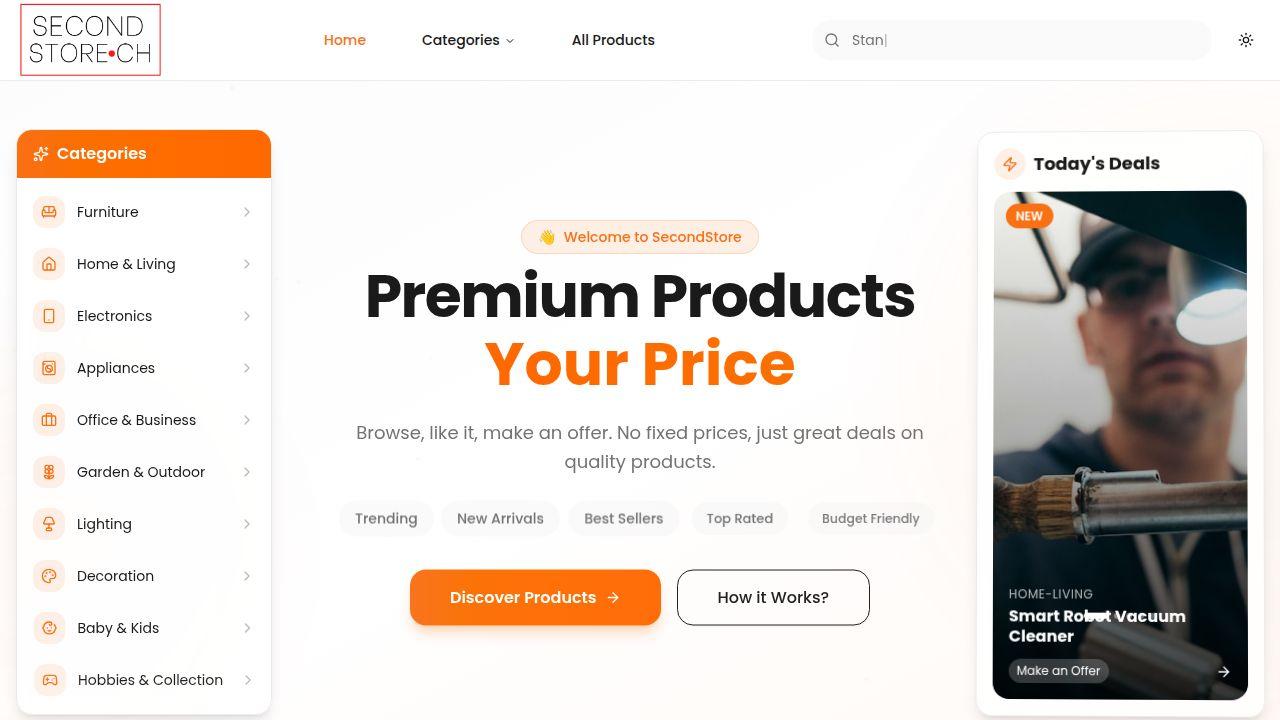
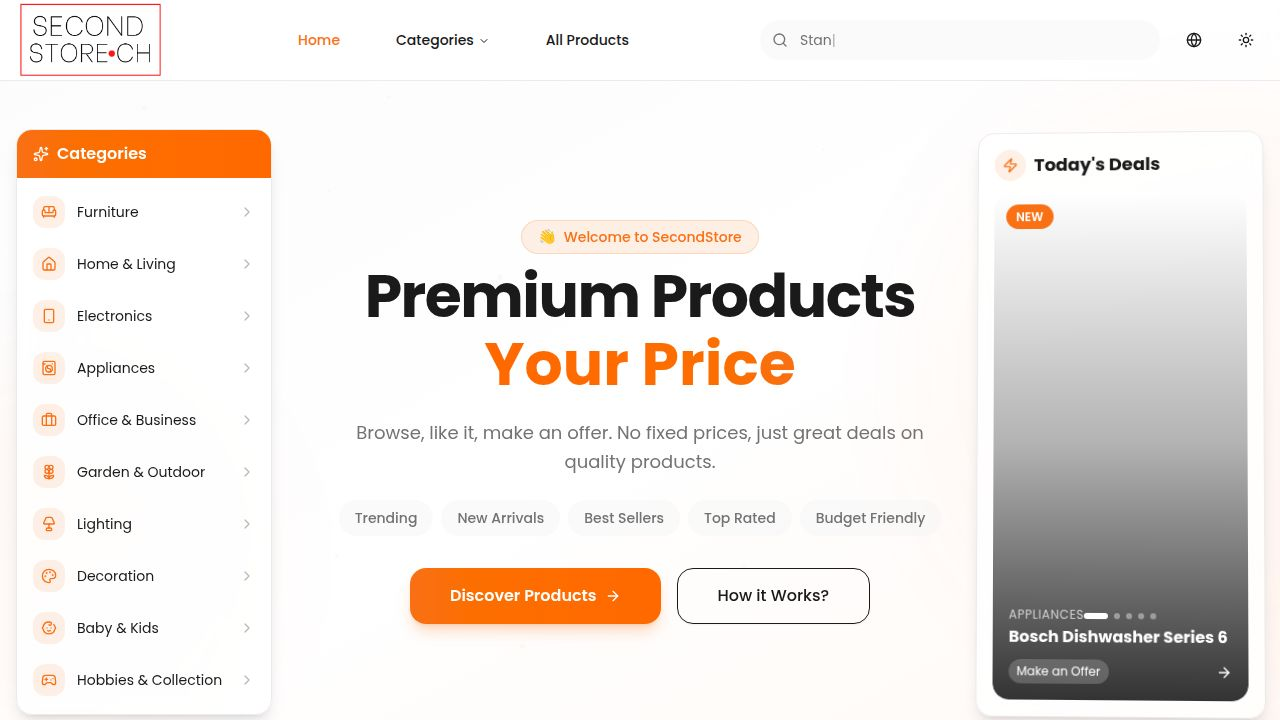
Add multi-language translation functionality to the website
Integrate Google Translate widget into index.html and add a language selector dropdown to the header component, enabling translations for English, German, French, and Spanish.

Replit-Commit-Author: Agent
Replit-Commit-Session-Id: 3b2d8027-30a9-437f-b7c5-ccaecded2ff2
Replit-Commit-Checkpoint-Type: full_checkpoint
Replit-Commit-Event-Id: 98a0b1bd-e907-4417-8345-b04eda1ec47f
Replit-Commit-Screenshot-Url: https://storage.googleapis.com/screenshot-production-us-central1/4ddbcb88-ef6c-408d-9746-e22c289cd479/3b2d8027-30a9-437f-b7c5-ccaecded2ff2/JQm6DxC
Replit-Helium-Checkpoint-Created: true

diff --git a/client/src/components/layout/header.tsx b/client/src/components/layout/header.tsx
@@ -1,6 +1,12 @@
 import { Link, useLocation } from "wouter";
-import { Search, Menu, Sun, Moon } from "lucide-react";
+import { Search, Menu, Sun, Moon, Globe } from "lucide-react";
 import * as Icons from "lucide-react";
+import {
+  DropdownMenu,
+  DropdownMenuContent,
+  DropdownMenuItem,
+  DropdownMenuTrigger,
+} from "@/components/ui/dropdown-menu";
 import { Button } from "@/components/ui/button";
 import {
   NavigationMenu,
@@ -243,6 +249,29 @@ export function Header() {
             )}
           </div>
 
+          <DropdownMenu>
+            <DropdownMenuTrigger asChild>
+              <Button variant="ghost" size="icon" data-testid="button-language">
+                <Globe className="h-[1.2rem] w-[1.2rem]" />
+                <span className="sr-only">Change language</span>
+              </Button>
+            </DropdownMenuTrigger>
+            <DropdownMenuContent align="end">
+              <DropdownMenuItem onClick={() => changeLanguage('en')} className="cursor-pointer">
+                <span className="mr-2">🇬🇧</span> English
+              </DropdownMenuItem>
+              <DropdownMenuItem onClick={() => changeLanguage('de')} className="cursor-pointer">
+                <span className="mr-2">🇩🇪</span> Deutsch
+              </DropdownMenuItem>
+              <DropdownMenuItem onClick={() => changeLanguage('fr')} className="cursor-pointer">
+                <span className="mr-2">🇫🇷</span> Français
+              </DropdownMenuItem>
+              <DropdownMenuItem onClick={() => changeLanguage('es')} className="cursor-pointer">
+                <span className="mr-2">🇪🇸</span> Español
+              </DropdownMenuItem>
+            </DropdownMenuContent>
+          </DropdownMenu>
+
           <Button variant="ghost" size="icon" onClick={() => {
             const isDark = document.documentElement.classList.contains('dark');
             setTheme(isDark ? "light" : "dark");
@@ -255,6 +284,17 @@ export function Header() {
       </div>
     </header>
   );
+}
+
+function changeLanguage(lang: string) {
+  const selectElement = document.querySelector('.goog-te-combo') as HTMLSelectElement;
+  if (selectElement) {
+    selectElement.value = lang;
+    selectElement.dispatchEvent(new Event('change'));
+  } else {
+    document.cookie = `googtrans=/en/${lang}; path=/`;
+    window.location.reload();
+  }
 }
 
 const ListItem = React.forwardRef<

diff --git a/client/index.html b/client/index.html
@@ -18,9 +18,30 @@
     <link rel="preconnect" href="https://fonts.googleapis.com">
     <link rel="preconnect" href="https://fonts.gstatic.com" crossorigin>
     <link href="https://fonts.googleapis.com/css2?family=Poppins:wght@300;400;500;600;700;800&display=swap" rel="stylesheet">
+    
+    <style>
+      .goog-te-banner-frame { display: none !important; }
+      body { top: 0 !important; }
+      .goog-te-gadget { font-family: inherit !important; }
+      .goog-te-gadget-simple { background: transparent !important; border: none !important; padding: 0 !important; }
+      .goog-te-gadget-simple .goog-te-menu-value { color: inherit !important; }
+      .goog-te-gadget-simple .goog-te-menu-value span { color: inherit !important; }
+      #google_translate_element { display: none; }
+    </style>
   </head>
   <body>
     <div id="root"></div>
+    <div id="google_translate_element"></div>
+    <script type="text/javascript">
+      function googleTranslateElementInit() {
+        new google.translate.TranslateElement({
+          pageLanguage: 'en',
+          includedLanguages: 'en,de,fr,es',
+          autoDisplay: false
+        }, 'google_translate_element');
+      }
+    </script>
+    <script type="text/javascript" src="//translate.google.com/translate_a/element.js?cb=googleTranslateElementInit"></script>
     <script type="module" src="/src/main.tsx"></script>
   </body>
 </html>
